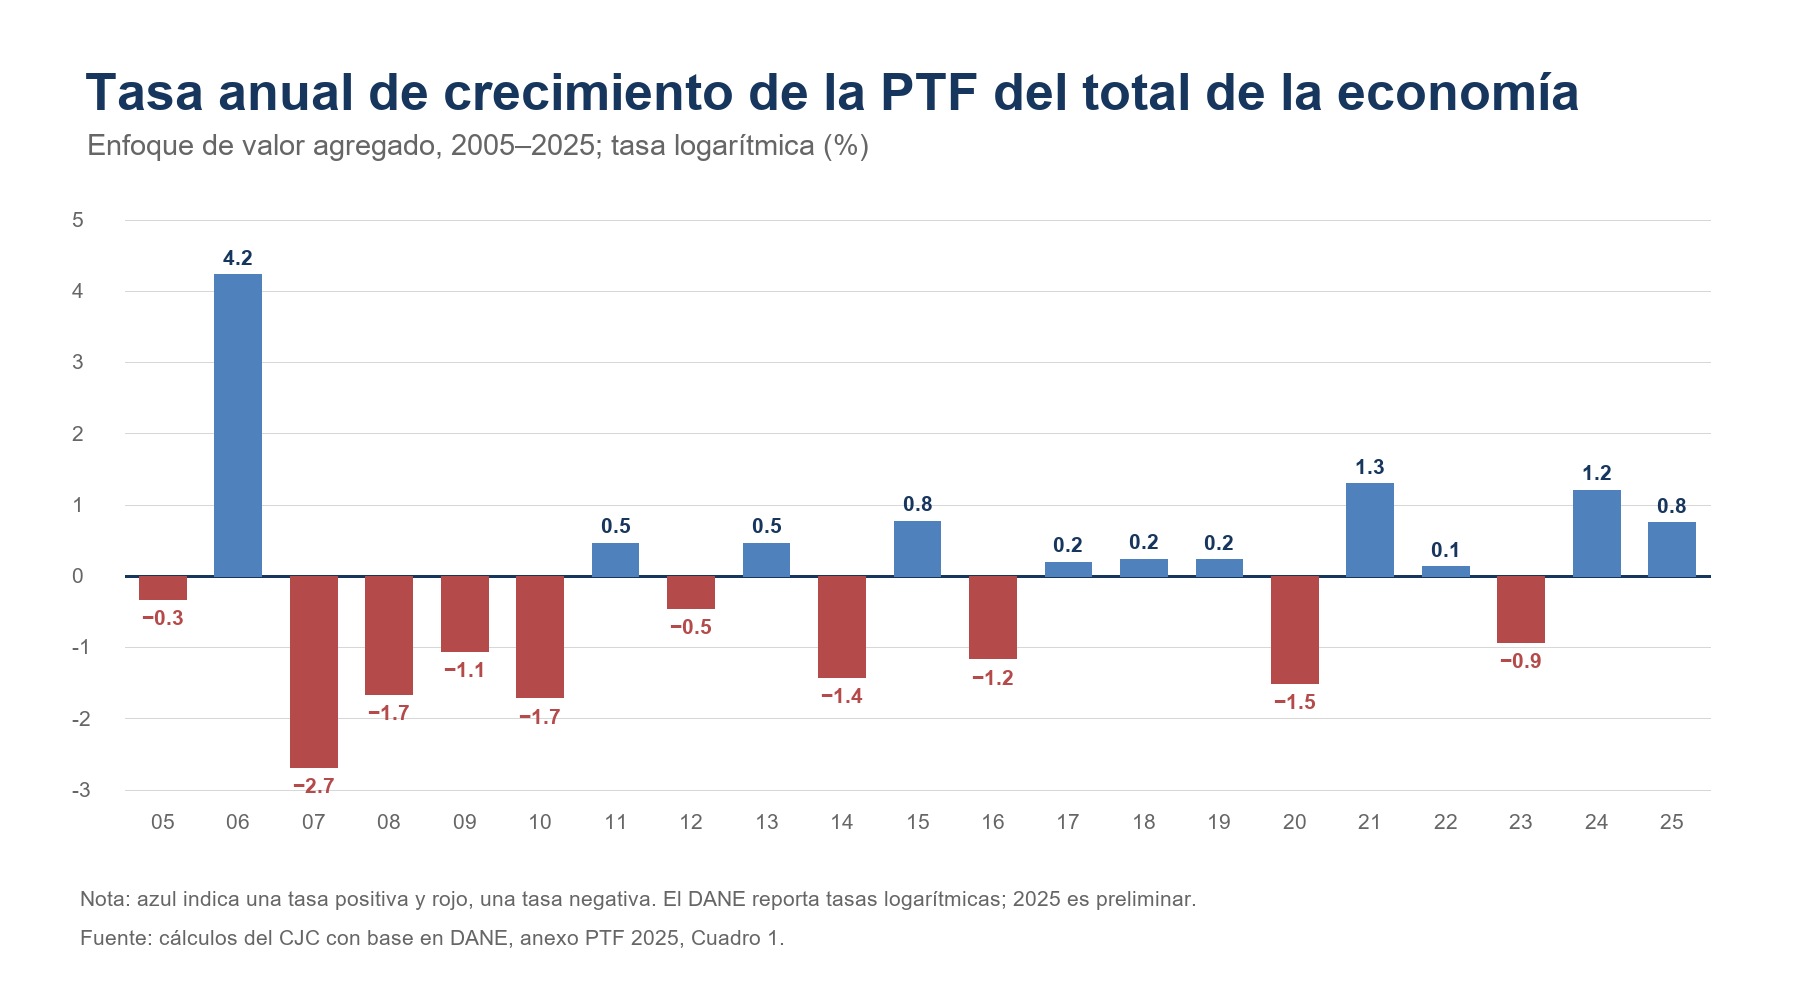
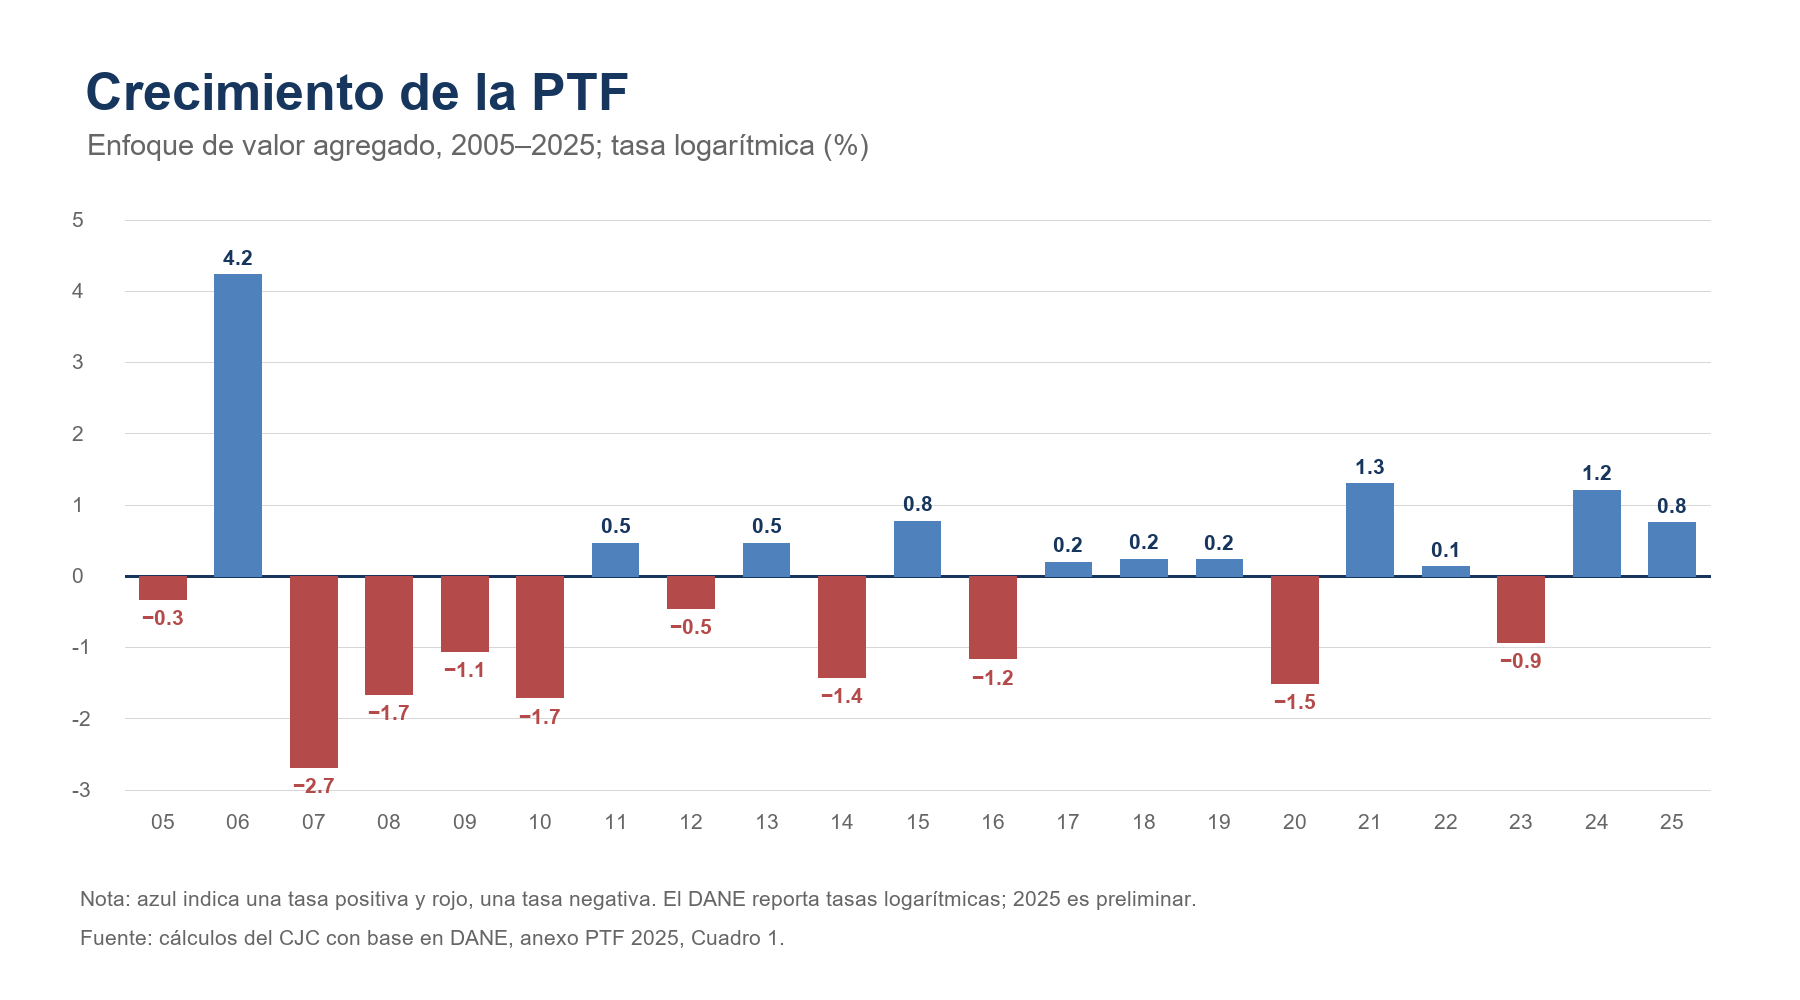
Acorta el titulo de la figura 1

Changed region(s): [[0.0311, 0.062, 0.8711, 0.124]]

diff --git a/scripts/build_ptf_data.py b/scripts/build_ptf_data.py
@@ -804,7 +804,7 @@ def draw_value_added_tfp_bars(
     ]
     rows.sort(key=lambda row: int(row["year"]))
     img, draw, f = canvas(
-        "Tasa anual de crecimiento de la PTF del total de la economía",
+        "Crecimiento de la PTF",
         "Enfoque de valor agregado, 2005–2025; tasa logarítmica (%)",
         1800,
         1000,
